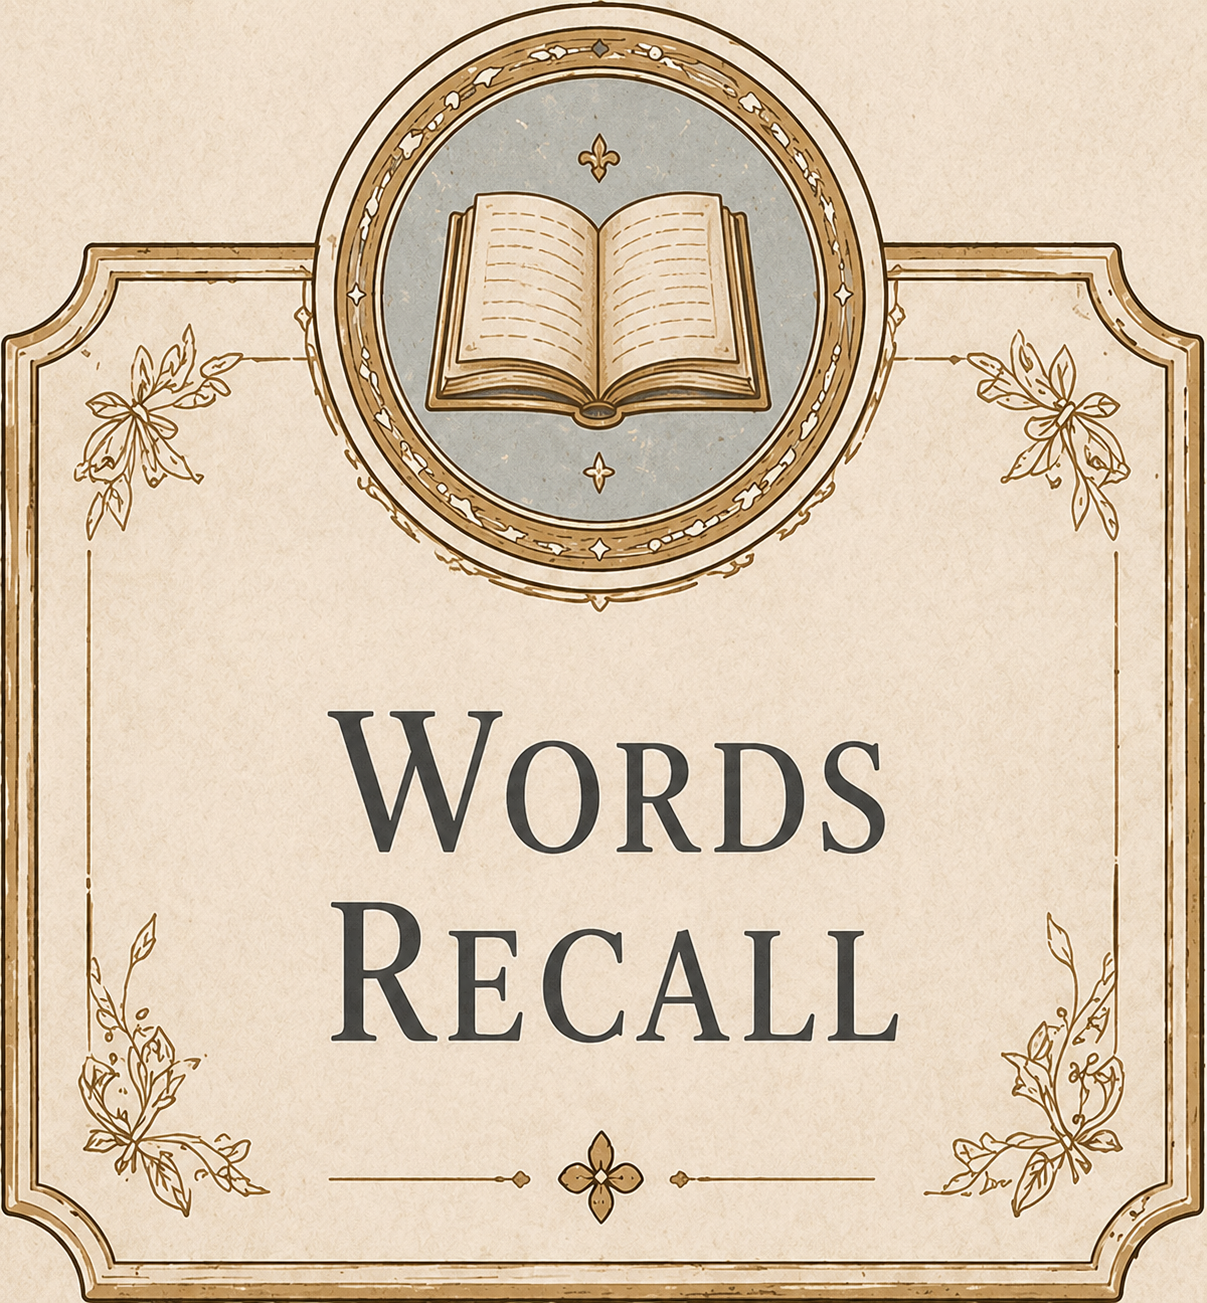
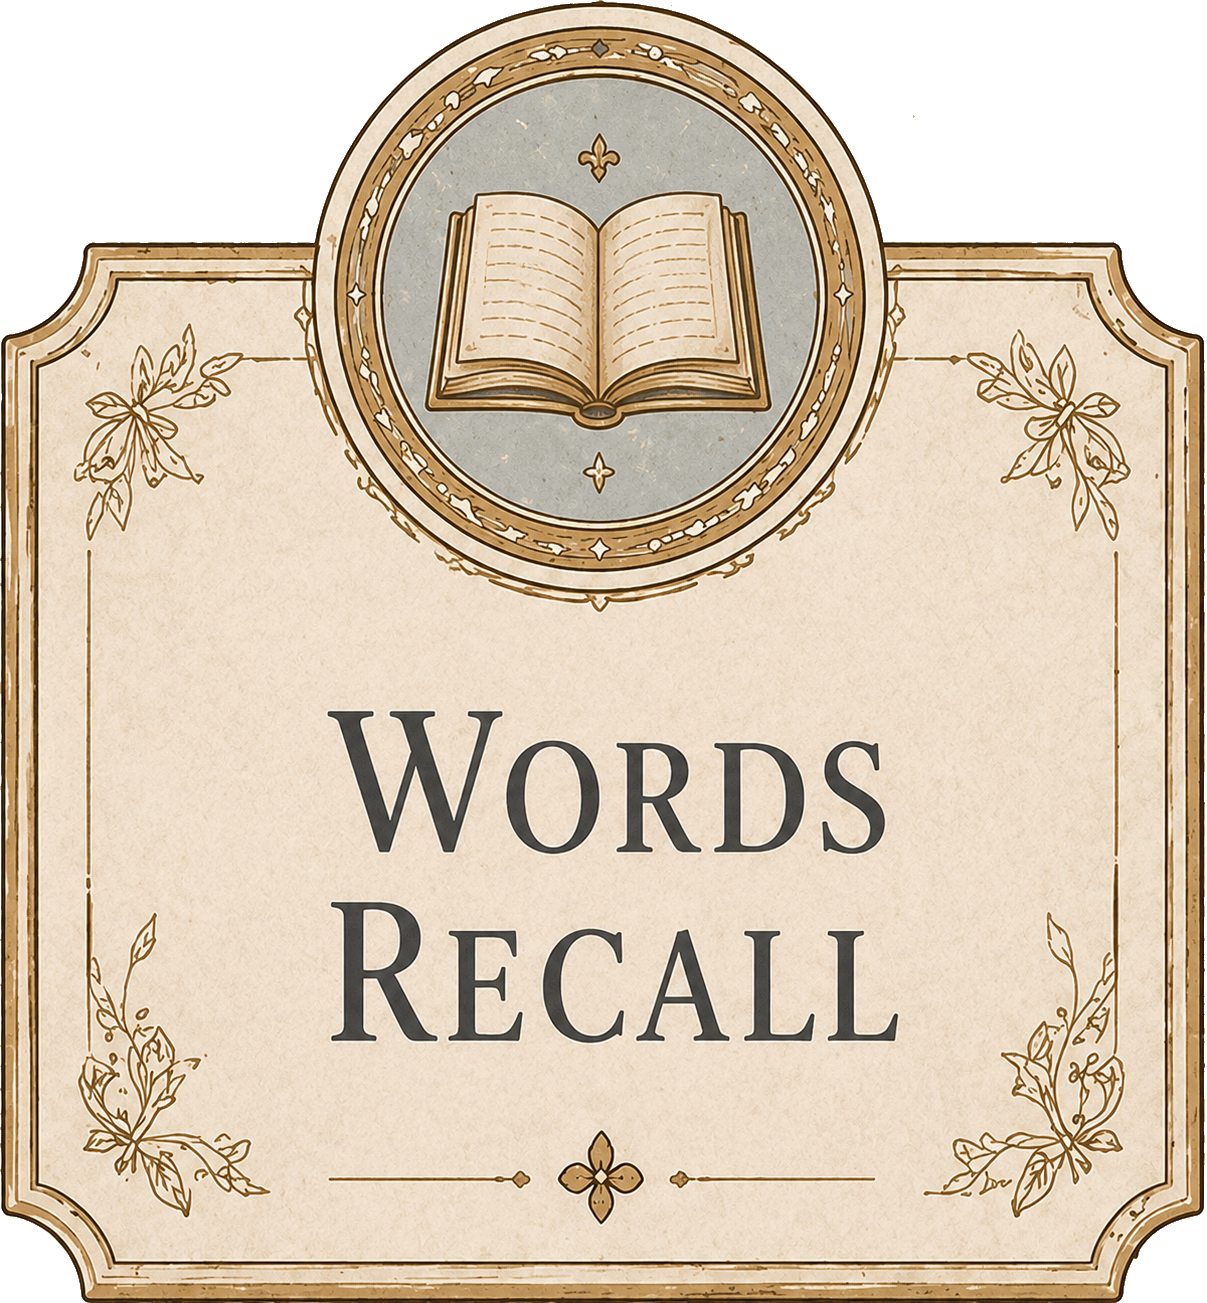
Menu: floodfill the 4 plaque/hero buttons' cream margins to transparent (PIL), unify all four to one size, shrink top pair, spread bottom pair. Golden Seal → listening dictation: auto-reads the example (tap sentence/↻ to replay), NO Chinese until answered, removed REVEAL/CHECK (Enter submits), input

diff --git a/js/views.js b/js/views.js
@@ -1180,26 +1180,22 @@ const Views = (function () {
             <span class="gs-dots"></span>
           </div>
           <div class="gs-panel">
-            <div class="gs-label gs-listen">✦ LISTEN AND SPELL ✦</div>
+            <div class="gs-label gs-listen">✦ LISTEN &amp; SPELL ✦ <span class="gs-replay">↻</span></div>
             <p class="gs-sentence-en"></p>
-            <p class="gs-sentence-zh"></p>
-            <p class="gs-hint"></p>
             <div class="gs-spell">
               <div class="gs-cells"></div>
-              <input class="gs-input" type="text" lang="en" inputmode="text"
+              <input class="gs-input" type="text" lang="en" inputmode="latin"
                      autocapitalize="off" autocorrect="off" spellcheck="false" aria-label="Spell the word">
             </div>
-            <p class="gs-note">If answered incorrectly, the correct spelling appears briefly,<br>then you must type it again. · 看过答案不算通过</p>
             <div class="gs-correction" hidden></div>
-            <div class="gs-actions">
-              <button type="button" class="gs-btn gs-reveal">👁 REVEAL</button>
-              <button type="button" class="gs-btn gs-check">✓ CHECK</button>
-            </div>
+            <p class="gs-sentence-zh"></p>
+            <p class="gs-note">Type what you hear, then press Enter.</p>
           </div>`;
 
         const el = (s) => body.querySelector(s);
         const cellsEl = el(".gs-cells"), input = el(".gs-input");
-        const enEl = el(".gs-sentence-en"), zhEl = el(".gs-sentence-zh"), hintEl = el(".gs-hint");
+        const enEl = el(".gs-sentence-en"), zhEl = el(".gs-sentence-zh");
+        const sayLine = () => { try { if (typeof TTS !== "undefined" && TTS.speak) TTS.speak(cur().en || cur().word); } catch (_) {} };
         const noEl = el(".gs-no"), dotsEl = el(".gs-dots"), corr = el(".gs-correction");
 
         const cur = () => set[queue[pos]];
@@ -1228,13 +1224,12 @@ const Views = (function () {
           corr.hidden = true; corr.innerHTML = "";
           input.value = "";
           const q = cur();
-          enEl.innerHTML = blankSentence(q.en, q.word);
-          zhEl.textContent = "";                  // Chinese hidden until answered
-          hintEl.textContent = q.pos || "";       // POS only — no Chinese in the prompt
+          enEl.innerHTML = blankSentence(q.en, q.word);   // sentence shown, target blanked
+          zhEl.textContent = "";                  // Chinese only appears AFTER answering
           cellsEl.classList.remove("is-shake");
           renderCells(); renderDots();
           setTimeout(() => { try { input.focus(); } catch (_) {} }, 60);
-          speakWord(q.word);
+          sayLine();                              // auto-read the whole example
         }
         function showCorrection(typed) {
           const q = cur();
@@ -1323,9 +1318,8 @@ const Views = (function () {
             const clean = !revealed && !wrongThis;     // un-prompted, first try this presentation
             if (clean) { q.status = "sealed"; if (window.Quiz) Quiz.recordWord(q.word, true); playSuccessChord(); }
             else { if (q.status !== "sealed") q.status = "corrected"; if (window.Quiz) Quiz.recordCorrected(q.word); queue.push(queue[pos]); }
-            // NOW reveal the Chinese (only after it's answered) and hold a beat.
+            // NOW reveal the Chinese translation (only after it's answered).
             zhEl.textContent = q.zh || "";
-            hintEl.textContent = (q.pos ? q.pos + "  " : "") + (q.meaning || "");
             renderDots(); recordState();
             setTimeout(() => {
               pos += 1;
@@ -1337,15 +1331,8 @@ const Views = (function () {
             if (q.status !== "sealed") q.status = "corrected";
             if (!recordedWrong && window.Quiz) { Quiz.recordWord(q.word, false); recordedWrong = true; }
             cellsEl.classList.remove("is-shake"); void cellsEl.offsetWidth; cellsEl.classList.add("is-shake");
-            showCorrection(typed); speakWord(q.word); renderDots();
+            showCorrection(typed); zhEl.textContent = q.zh || ""; sayLine(); renderDots();
           }
-        }
-        function onReveal() {
-          const q = cur();
-          revealed = true;
-          if (q.status !== "sealed") q.status = "corrected";
-          if (!recordedWrong && window.Quiz) { Quiz.recordWord(q.word, false); recordedWrong = true; }  // seeing = counts as wrong
-          showCorrection(input.value.trim().toLowerCase()); speakWord(q.word); renderDots();
         }
         function retry() { if (!corr.hidden) { corr.hidden = true; corr.innerHTML = ""; input.value = ""; renderCells(); } }
 
@@ -1353,9 +1340,8 @@ const Views = (function () {
         input.addEventListener("keydown", (e) => { if (e.key === "Enter") { e.preventDefault(); onCheck(); } });
         input.addEventListener("focus", retry);
         cellsEl.addEventListener("click", () => { retry(); try { input.focus(); } catch (_) {} });
-        el(".gs-listen").addEventListener("click", () => speakWord(cur().word));   // tap label to replay
-        el(".gs-check").addEventListener("click", onCheck);
-        el(".gs-reveal").addEventListener("click", onReveal);
+        el(".gs-listen").addEventListener("click", sayLine);          // tap label / ↻ to replay
+        enEl.addEventListener("click", sayLine);                      // tap the sentence to replay
         present();
       }
 

diff --git a/index.html b/index.html
@@ -116,29 +116,28 @@
   .page.notes-art::before, .page.notes-art::after { display: none; }
 
   .menu-btn {
-    position: absolute; top: 50%; width: 21%;
+    position: absolute; top: 47%; width: 17%;
     aspect-ratio: 601 / 645;
     transform: translateY(-50%);
     background: transparent; border: 0; padding: 0;
     cursor: pointer; z-index: 8;
   }
   .menu-btn:focus { outline: none; }
-  .menu-btn.left  { left: 10.5%; }
-  .menu-btn.right { right: 10.5%; }
+  .menu-btn.left  { left: 12%; }
+  .menu-btn.right { right: 12%; }
   /* Two painted plaque entries low on the cover — Begin Trial (left of
-     centre) and Words Recall (right of centre). Same press/chime/badge as
-     the hero buttons; still plaques (no breathe), soft drop-shadow. */
+     centre) and Words Recall (right of centre), same size as the hero pair,
+     spread a little wider. Transparent margins (floodfilled), no breathe. */
   .menu-btn.quiz, .menu-btn.recall {
-    top: auto; bottom: 3.5%; transform: none;
+    top: auto; bottom: 3%; transform: none;
     width: 17%; aspect-ratio: 549 / 596;
   }
-  .menu-btn.quiz   { left: 31.5%; }
-  .menu-btn.recall { right: 31.5%; }
+  .menu-btn.quiz   { left: 23%; }
+  .menu-btn.recall { right: 23%; }
   .menu-btn.quiz .menu-btn-inner,
   .menu-btn.recall .menu-btn-inner {
     background-size: contain; background-position: center; background-repeat: no-repeat;
     animation: none;
-    mix-blend-mode: multiply;   /* drop the cream paper into the cover */
     filter: drop-shadow(0 5px 13px rgba(40, 28, 12, 0.34));
   }
   .menu-btn.quiz   .menu-btn-inner { background-image: url("assets/bg/ui/C4601148-C0B7-4FBC-8B78-2DD0B958F9D5.png"); }

diff --git a/css/pages.css b/css/pages.css
@@ -1068,6 +1068,8 @@
 }
 .gs-listen { cursor: pointer; }
 .gs-listen:hover { color: #B8860B; }
+.gs-replay { font-size: 14px; color: #B8860B; margin-left: 4px; }
+.gs-sentence-en { cursor: pointer; }   /* tap the sentence to hear it again */
 .gs-sentence-zh {
   font-family: "Noto Serif SC", "Songti SC", serif; font-size: 17px;
   color: #5D4D42; margin: 0 0 10px;
